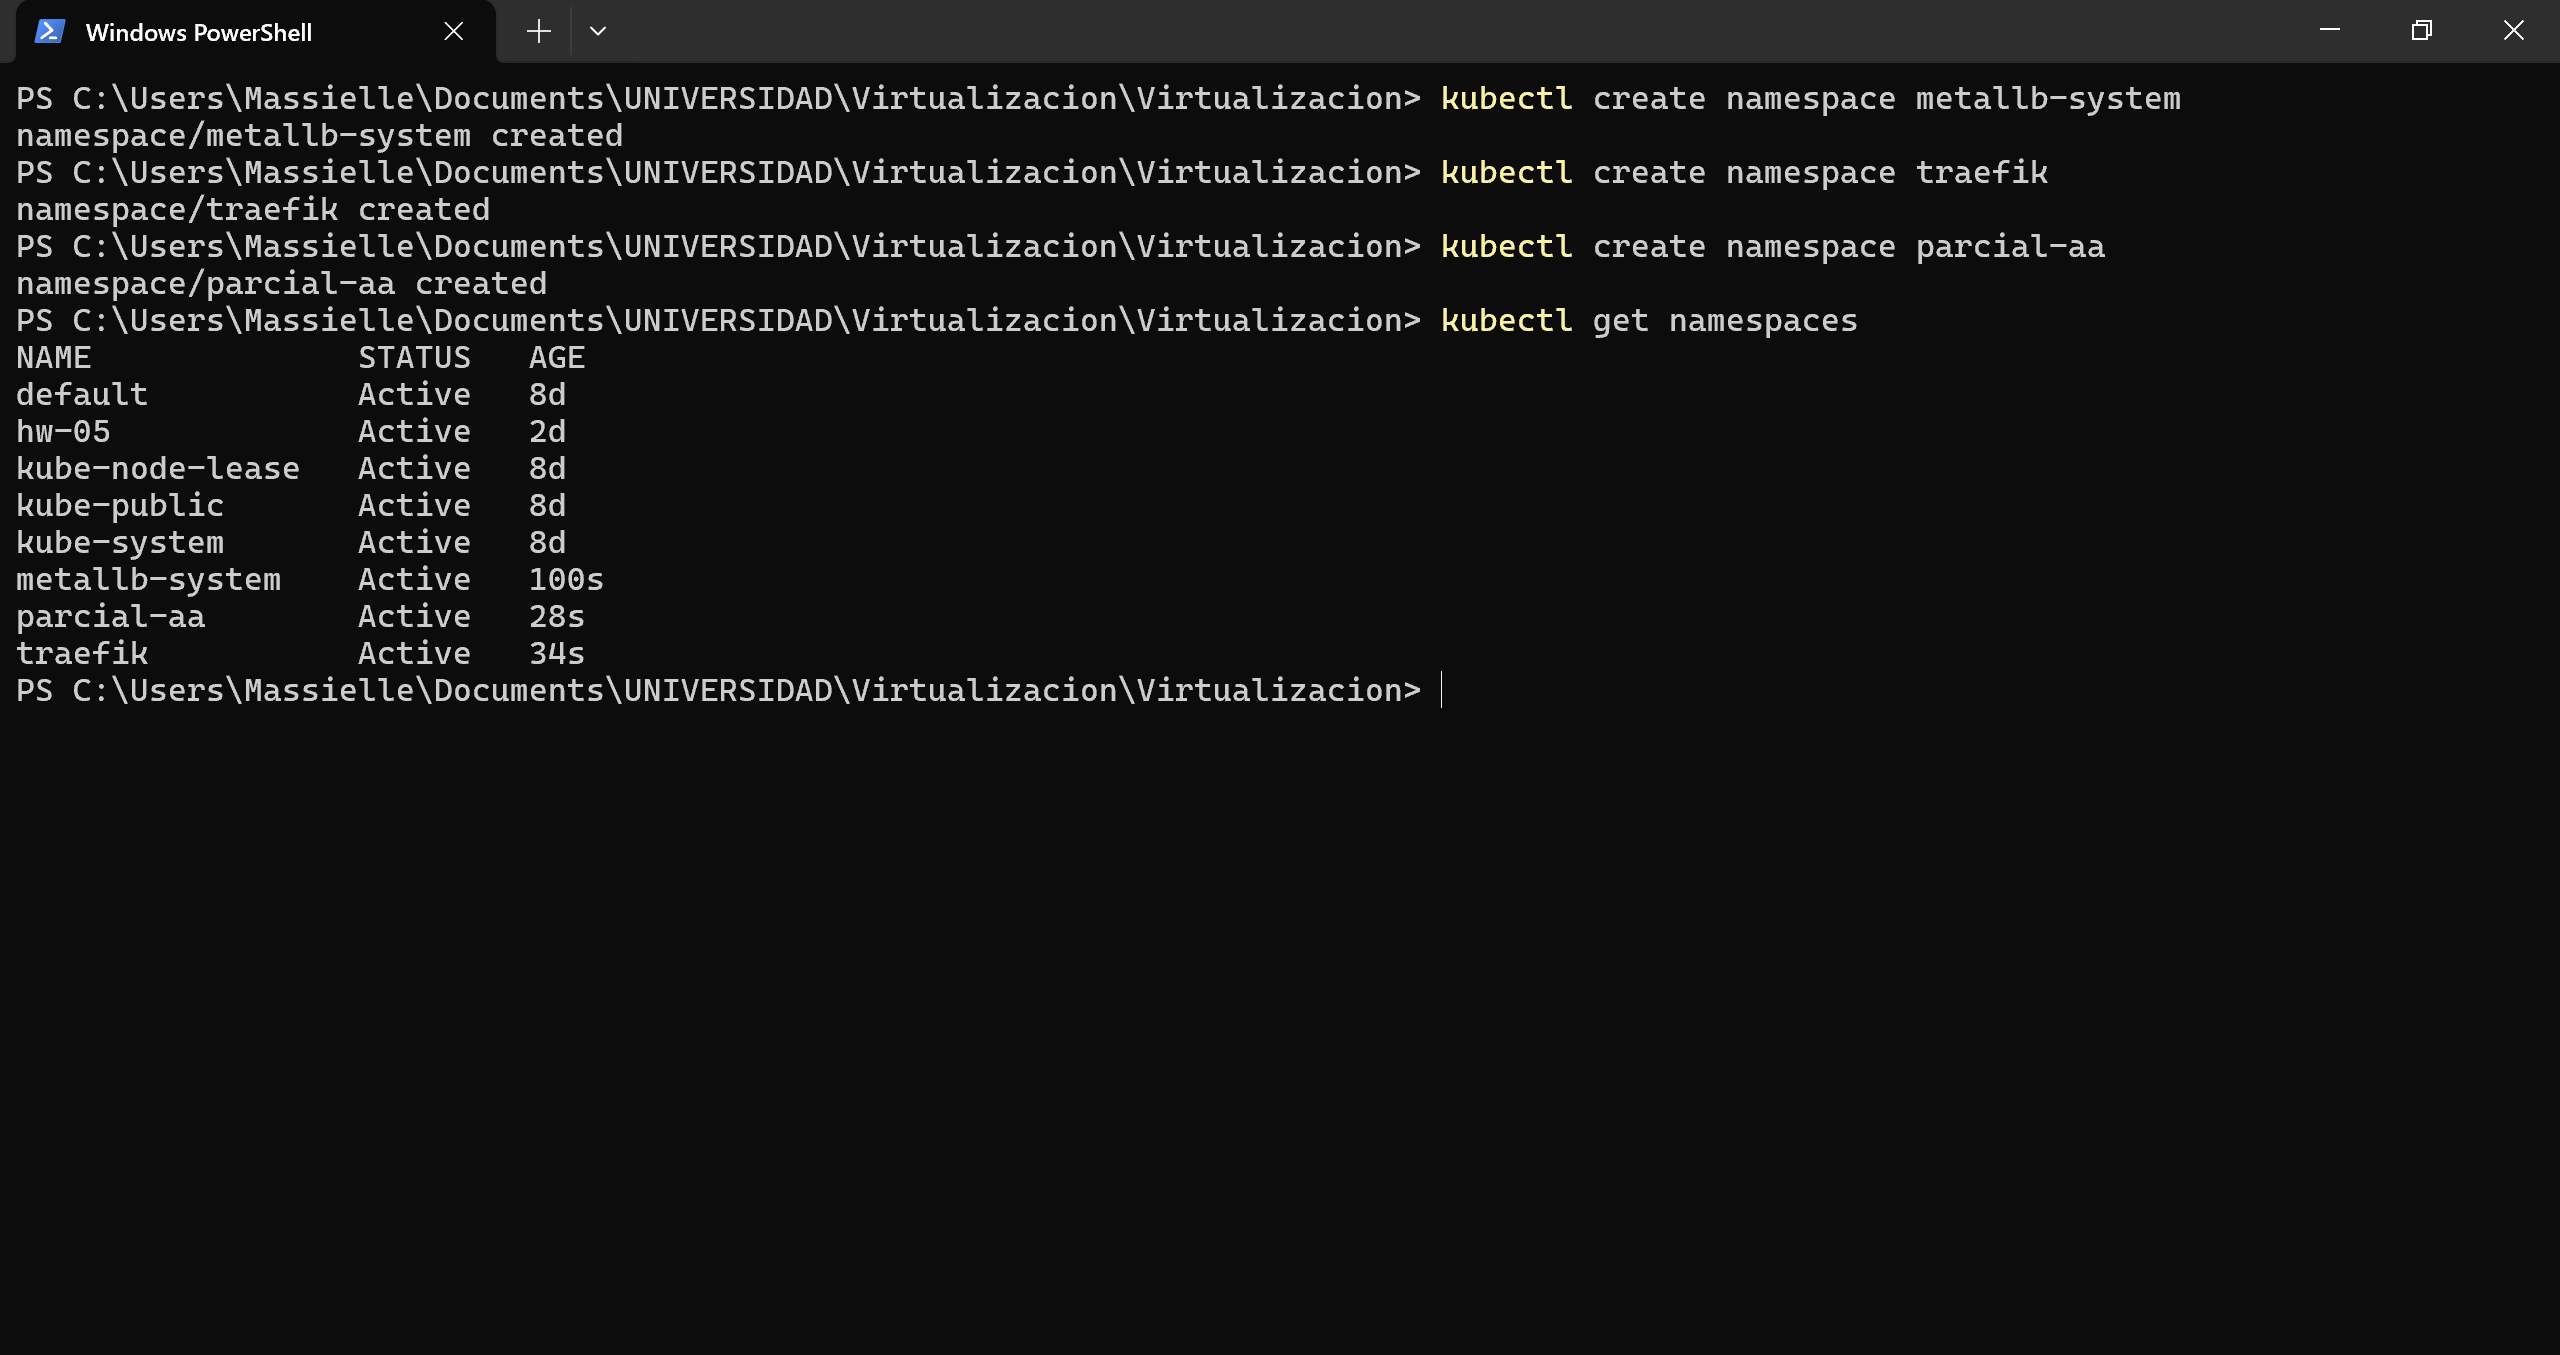
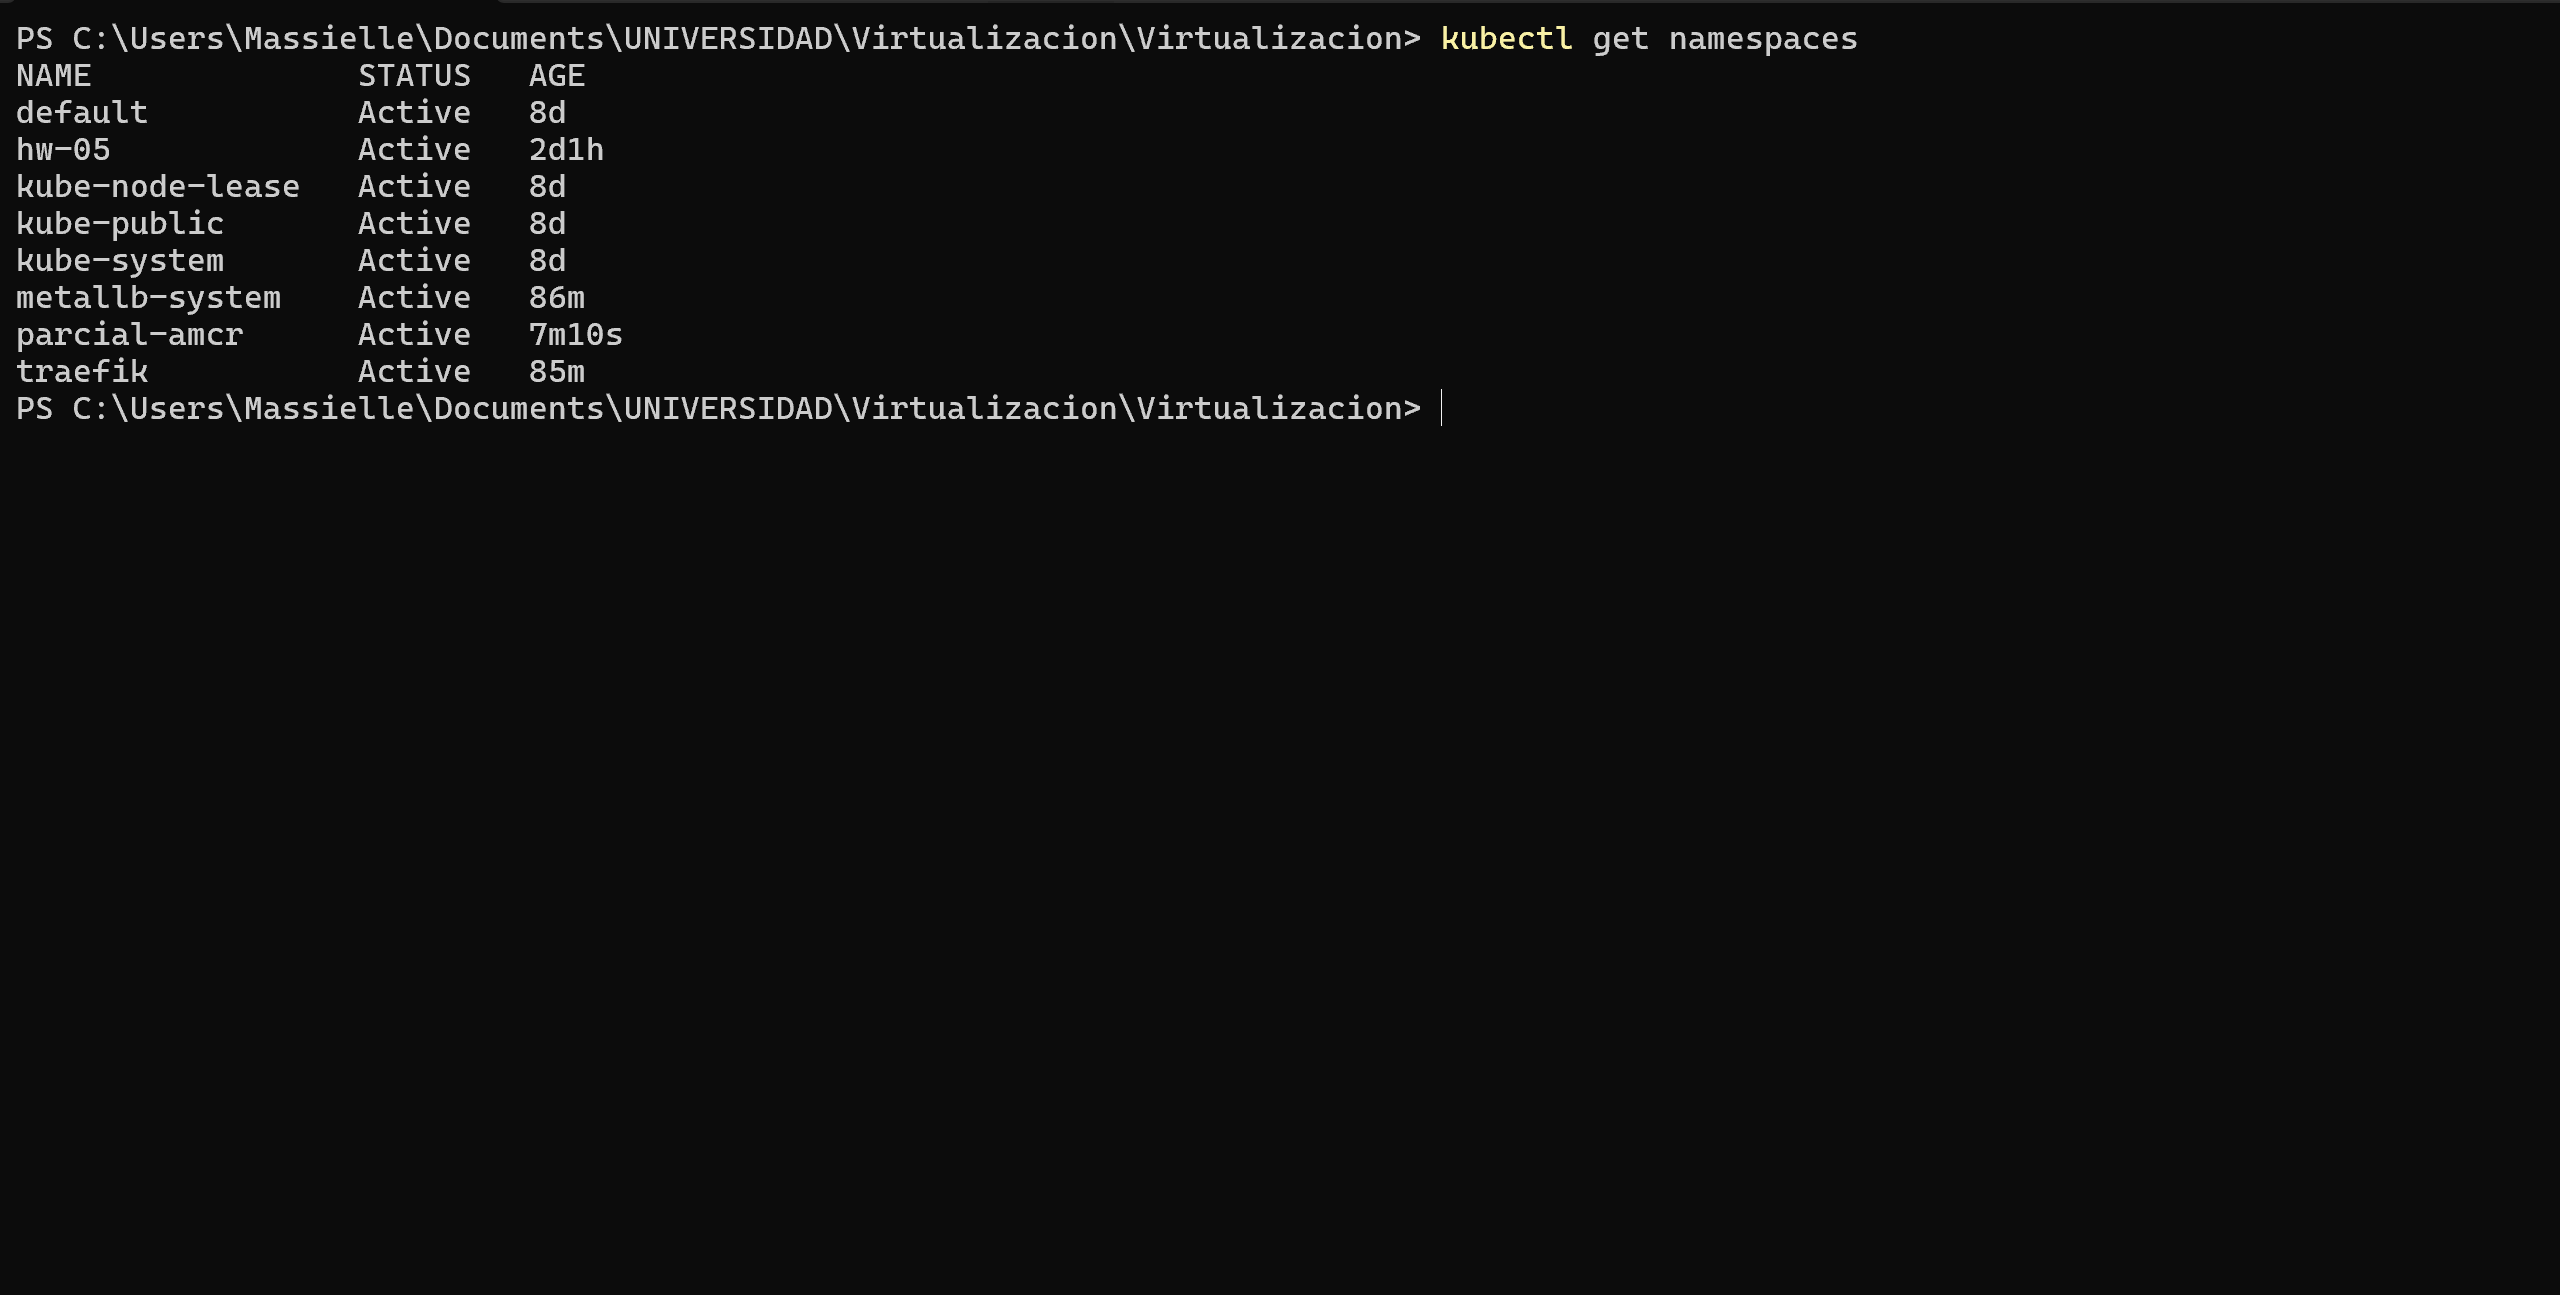
docs: improve README documentation and presentation

Changed region(s): [[0.0, 0.0, 1.0, 0.5251]]

diff --git a/README.md b/README.md
@@ -15,7 +15,7 @@ Para lograrlo se utilizaron las siguientes tecnologías:
 - NGINX
 - Windows Hosts
 
-La arquitectura implementada permite que cuatro aplicaciones diferentes sean accedidas utilizando distintos nombres de dominio, mientras todas utilizan la misma dirección IP asignada al servicio `LoadBalancer` de Traefik.
+La arquitectura implementada permite acceder a cuatro aplicaciones diferentes mediante distintos nombres de dominio, mientras todas comparten una única dirección IP asignada al servicio `LoadBalancer` de Traefik.
 
 ---
 
@@ -60,21 +60,21 @@ Se crearon los siguientes:
 ```text
 metallb-system
 traefik
-parcial-aa
+parcial-amcr
 ```
 
 El namespace `metallb-system` contiene los componentes de MetalLB.
 
 El namespace `traefik` contiene el Ingress Controller Traefik.
 
-El namespace `parcial-aa` contiene los cuatro Deployments, Services e Ingress de las aplicaciones.
+El namespace `parcial-amcr` contiene los cuatro Deployments, Services e Ingress de las aplicaciones.
 
 Comandos utilizados:
 
 ```powershell
 kubectl create namespace metallb-system
 kubectl create namespace traefik
-kubectl create namespace parcial-aa
+kubectl create namespace parcial-amcr
 ```
 
 Para verificar:
@@ -268,9 +268,9 @@ kubectl apply -f .\apps\applications.yaml
 Se verificó utilizando:
 
 ```powershell
-kubectl get deployments -n parcial-aa
-kubectl get pods -n parcial-aa
-kubectl get svc -n parcial-aa
+kubectl get deployments -n parcial-amcr
+kubectl get pods -n parcial-amcr
+kubectl get svc -n parcial-amcr
 ```
 
 Los cuatro Deployments quedaron disponibles y todos los Pods se encontraron en estado `Running`.
@@ -301,7 +301,7 @@ apiVersion: networking.k8s.io/v1
 kind: Ingress
 metadata:
   name: app1-ingress
-  namespace: parcial-aa
+  namespace: parcial-amcr
 spec:
   ingressClassName: traefik
   rules:
@@ -326,7 +326,7 @@ kubectl apply -f .\apps\ingress.yaml
 La configuración fue verificada mediante:
 
 ```powershell
-kubectl get ingress -n parcial-aa
+kubectl get ingress -n parcial-amcr
 ```
 
 Los cuatro Ingress utilizaron la dirección asignada por MetalLB:
@@ -490,4 +490,4 @@ Mediante esta práctica se implementó un sistema de exposición y enrutamiento 
 
 MetalLB permitió proporcionar una dirección IP al servicio `LoadBalancer` de Traefik, mientras que Traefik permitió utilizar múltiples nombres de dominio para acceder a diferentes aplicaciones sin necesidad de asignar una dirección IP independiente a cada una.
 
-Los cuatro Deployments y Services se encuentran dentro del namespace `parcial-aa`, mientras que MetalLB y Traefik utilizan sus propios namespaces. De esta manera se mantiene la separación de responsabilidades solicitada y se centraliza el acceso a las aplicaciones mediante una única entrada.
+Los cuatro Deployments y Services se encuentran dentro del namespace `parcial-amcr`, mientras que MetalLB y Traefik utilizan sus propios namespaces. De esta manera se mantiene la separación de responsabilidades solicitada y se centraliza el acceso a las aplicaciones mediante una única entrada.
